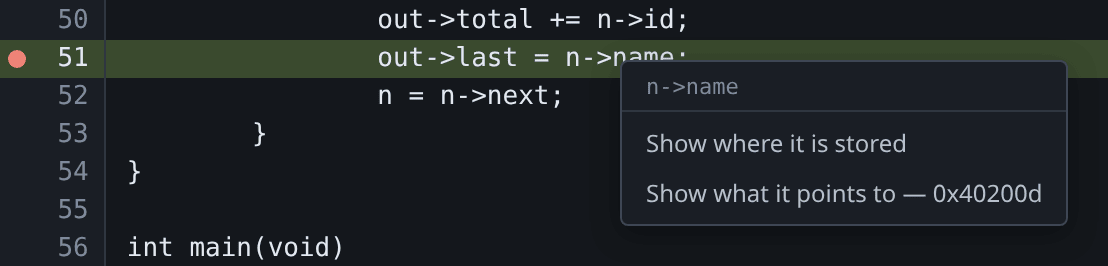
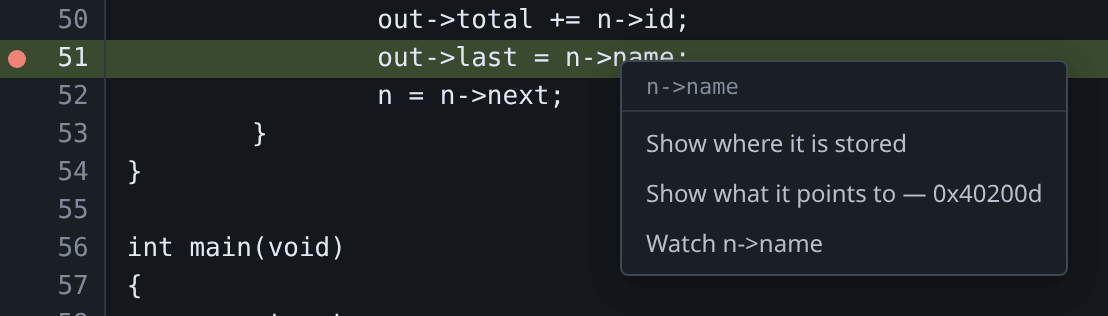
Collapse the remove cell on rows that have no watch to remove
An empty flex child still occupies its width and still earns the row's gap, so
adding a × to the watch rows put an 18px dead gutter down the *whole* Variables
pane — including the ordinary case, a frame's locals with no watches at all.
display:none rather than empty text takes it out of the layout entirely.

Found by regenerating the documentation screenshots, which is the only thing
here that looks at the pane as a picture: every type column in edit-value.png
had shifted left by the same amount. It is now byte-identical to the image
committed before any of this, which is the proof that the gutter is gone.

Two images did change and are updated. variables.png gains the × on its watch
row, and hover-menu.png gains the Watch entry in the value menu.

Nothing else is regenerated. The scenes are not byte-reproducible — two runs of
one unchanged scene differ across every row at the pixel level, without any
visible difference — so a blanket recapture would commit thirty binaries of
rasterisation noise and do it again on every future run.

Claude-Session: https://claude.ai/code/session_01Tvpn1EMCezVBaD41YbDJ13

diff --git a/internal/assets/web/css/panels.css b/internal/assets/web/css/panels.css
@@ -457,7 +457,15 @@
  *
  * Dim until pointed at, because a column of red crosses down the panel would
  * be the loudest thing in a pane whose job is to show values. */
-.var-remove {
+/* Hidden rather than merely empty on the rows that have no watch to remove.
+ * An empty flex child still occupies its width and still earns the row's gap,
+ * which put an 18px dead gutter down a pane that most of the time holds no
+ * watches at all — measured by regenerating the screenshots, where every type
+ * column had shifted left. */
+.var-remove { display: none; }
+
+.var-row.is-watch-root .var-remove {
+  display: block;
   flex: 0 0 auto;
   width: 12px;
   text-align: center;
@@ -466,7 +474,7 @@
   cursor: pointer;
 }
 
-.var-remove:hover {
+.var-row.is-watch-root .var-remove:hover {
   color: var(--danger);
   opacity: 1;
 }
